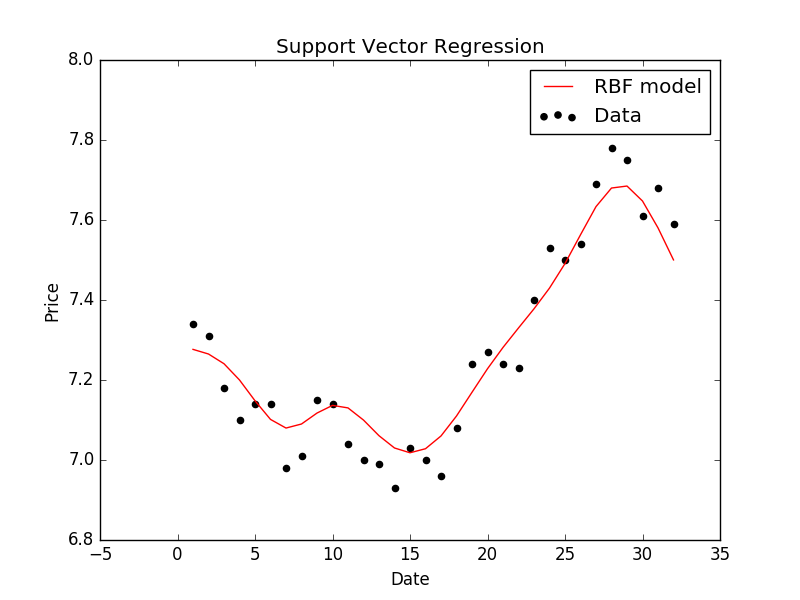
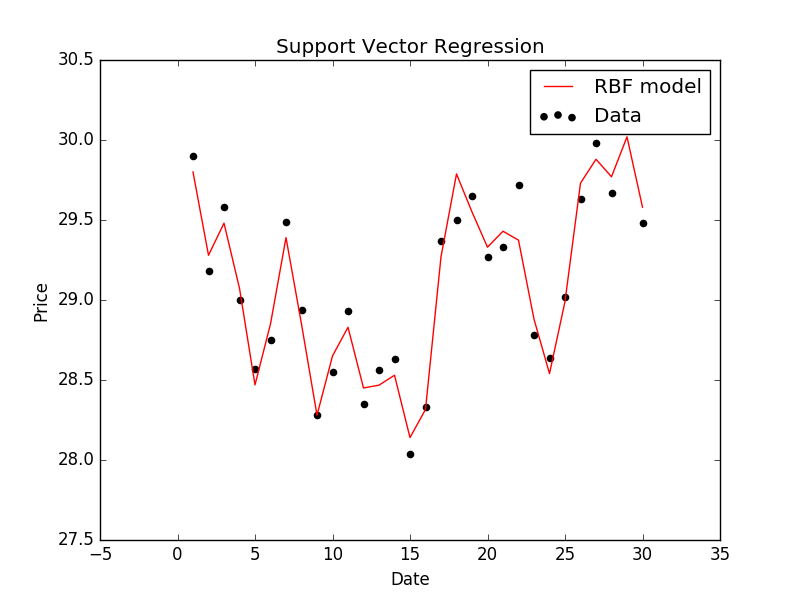
add cmb

diff --git a/demo.py b/demo.py
@@ -44,7 +44,7 @@ def predict_price(dates, prices, x):
 	#return svr_rbf.predict(x)[0], svr_lin.predict(x)[0], svr_poly.predict(x)[0]
 	return svr_rbf.predict(x)[0]
 
-get_data('cont.csv') # calling get_data method by passing the csv file to it
+get_data('cmbbank.csv') # calling get_data method by passing the csv file to it
 print "Dates- ", dates
 print "Prices- ", prices
 nextdate = dates[0] + 1
